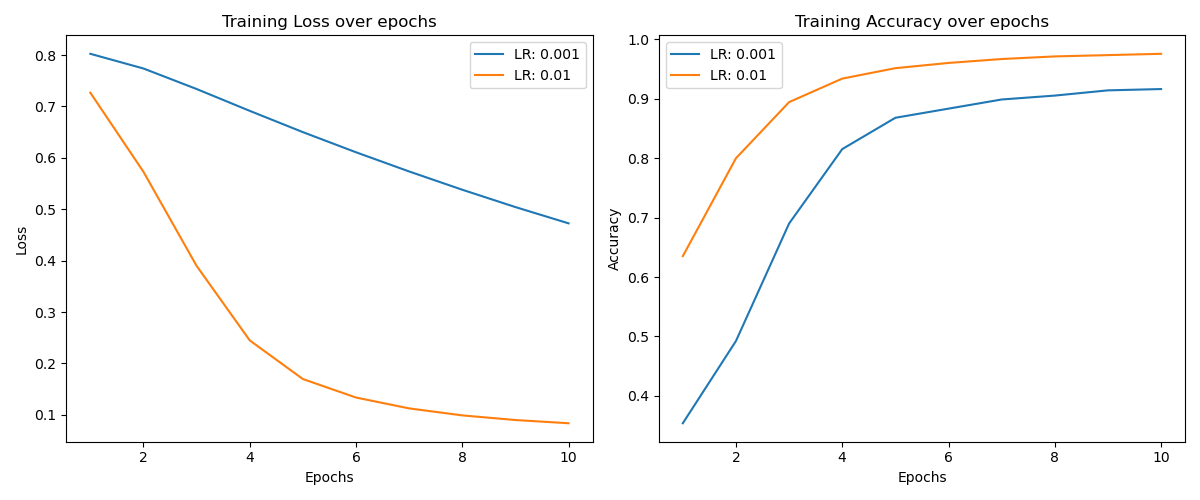
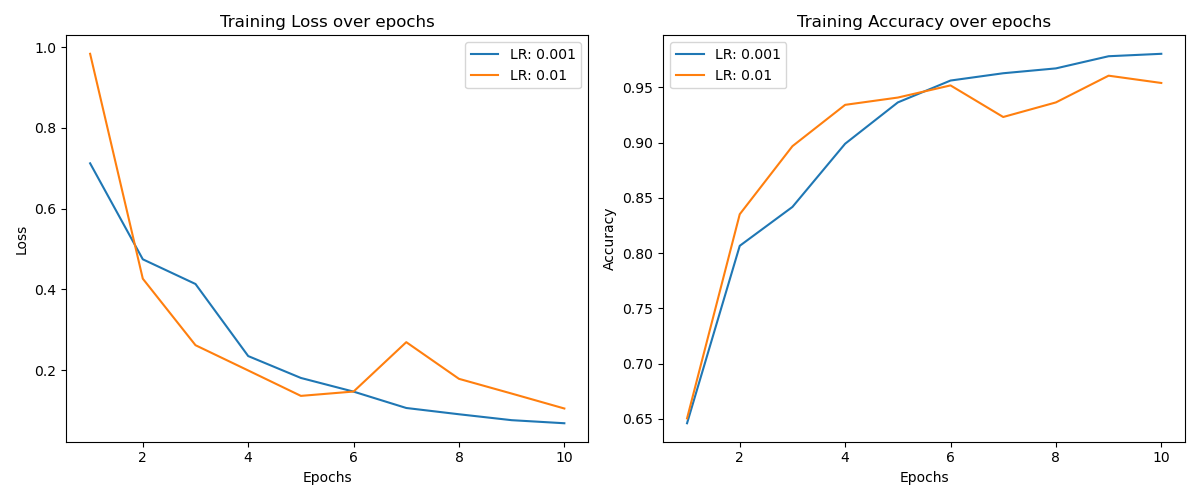
alexnet可以跑了

diff --git a/Alexnet.py b/Alexnet.py
@@ -1,11 +1,16 @@
 import torch
 import torch.nn as nn
 import torch.optim as optim
+from torchvision import models
 from sklearn.datasets import load_breast_cancer
 from sklearn.model_selection import train_test_split
 from sklearn.preprocessing import StandardScaler
 from sklearn.decomposition import PCA
 import matplotlib.pyplot as plt
+import torch.nn.functional as F
+
+device = torch.device('cuda' if torch.cuda.is_available() else 'cpu')
+
 
 # 加载乳腺癌数据集
 data = load_breast_cancer()
@@ -31,32 +36,43 @@ visualize_features(X, y)
 scaler = StandardScaler()
 X_scaled = scaler.fit_transform(X)
 
-# PCA降维（任选您的要求）
+# PCA降维（可选）
 pca = PCA(n_components=10)  # 选择10个主成分
 X_pca = pca.fit_transform(X_scaled)
 
 # 划分训练集和测试集
 X_train, X_test, y_train, y_test = train_test_split(X_pca, y, test_size=0.2, random_state=42)
 
-# 转换为张量类型
-X_train_tensor = torch.from_numpy(X_train).float()
-y_train_tensor = torch.from_numpy(y_train).long()  # 确保目标为长整型
-X_test_tensor = torch.from_numpy(X_test).float()
-y_test_tensor = torch.from_numpy(y_test).long()  # 确保目标为长整型
+# 转换为张量类型并调整形状为4D
+X_train_tensor = torch.from_numpy(X_train).float().view(-1, 1, 1, 10)  # 4D: batch size, channels, height, width
+y_train_tensor = torch.from_numpy(y_train).long()
+X_test_tensor = torch.from_numpy(X_test).float().view(-1, 1, 1, 10)  # 4D: batch size, channels, height, width
+y_test_tensor = torch.from_numpy(y_test).long()
+
+# 用cuda GPU加速
+X_train_tensor = X_train_tensor.to(device)
+y_train_tensor = y_train_tensor.to(device)
+X_test_tensor = X_test_tensor.to(device)
+y_test_tensor = y_test_tensor.to(device)
 
 
-# 定义全连接神经网络模型
-class MLPModel(nn.Module):
-    def __init__(self, num_classes=2):
-        super(MLPModel, self).__init__()
-        self.fc1 = nn.Linear(10, 64)  # 输入特征数为10，输出为64个神经元
-        self.fc2 = nn.Linear(64, 32)  # 隐藏层
-        self.fc3 = nn.Linear(32, num_classes)  # 输出层
+# 定义修改后的AlexNet模型
+class ModifiedAlexNet(nn.Module):
+    def __init__(self):
+        super(ModifiedAlexNet, self).__init__()
+        self.alexnet = models.alexnet(weights='DEFAULT')
+
+        # 修改输入层 - 第一个卷积层
+        self.alexnet.features[0] = nn.Conv2d(1, 64, kernel_size=(1, 1), stride=(1, 1), padding=(0, 0))
+        # 之后的卷积层调整使其兼容小输入
+        self.alexnet.features[1] = nn.BatchNorm2d(64)  # 保留BN层
+        self.alexnet.features[2] = nn.ReLU(inplace=True)
+        # self.alexnet.features[3] = nn.MaxPool2d(kernel_size=1)  # 更改池化层
+        # 替换最后的分类器
+        self.alexnet.classifier[6] = nn.Linear(4096, 2)  # 输出2个类别
 
     def forward(self, x):
-        x = torch.relu(self.fc1(x))  # ReLU激活
-        x = torch.relu(self.fc2(x))  # ReLU激活
-        return self.fc3(x)
+        return self.alexnet(x)
 
     # 训练模型函数
 
@@ -75,6 +91,9 @@ def train_model(model, X_train_tensor, y_train_tensor, num_epochs=10, batch_size
         for i in range(0, len(X_train_tensor), batch_size):
             inputs = X_train_tensor[i:i + batch_size]
             labels = y_train_tensor[i:i + batch_size]
+
+            inputs = inputs.repeat(1, 1, 10, 1)  # 重复3次，使其符合AlexNet输入要求
+            #inputs = F.interpolate(inputs, size=(11, 11), mode='bilinear', align_corners=False)
 
             optimizer.zero_grad()
             outputs = model(inputs)
@@ -99,7 +118,8 @@ num_epochs = 10
 results = {}
 
 for lr in learning_rates:
-    model = MLPModel()
+    model = ModifiedAlexNet()
+    model.to(device)
     train_loss, train_accuracy = train_model(model, X_train_tensor, y_train_tensor, num_epochs=num_epochs,
                                              learning_rate=lr)
     results[lr] = {'loss': train_loss, 'accuracy': train_accuracy}
